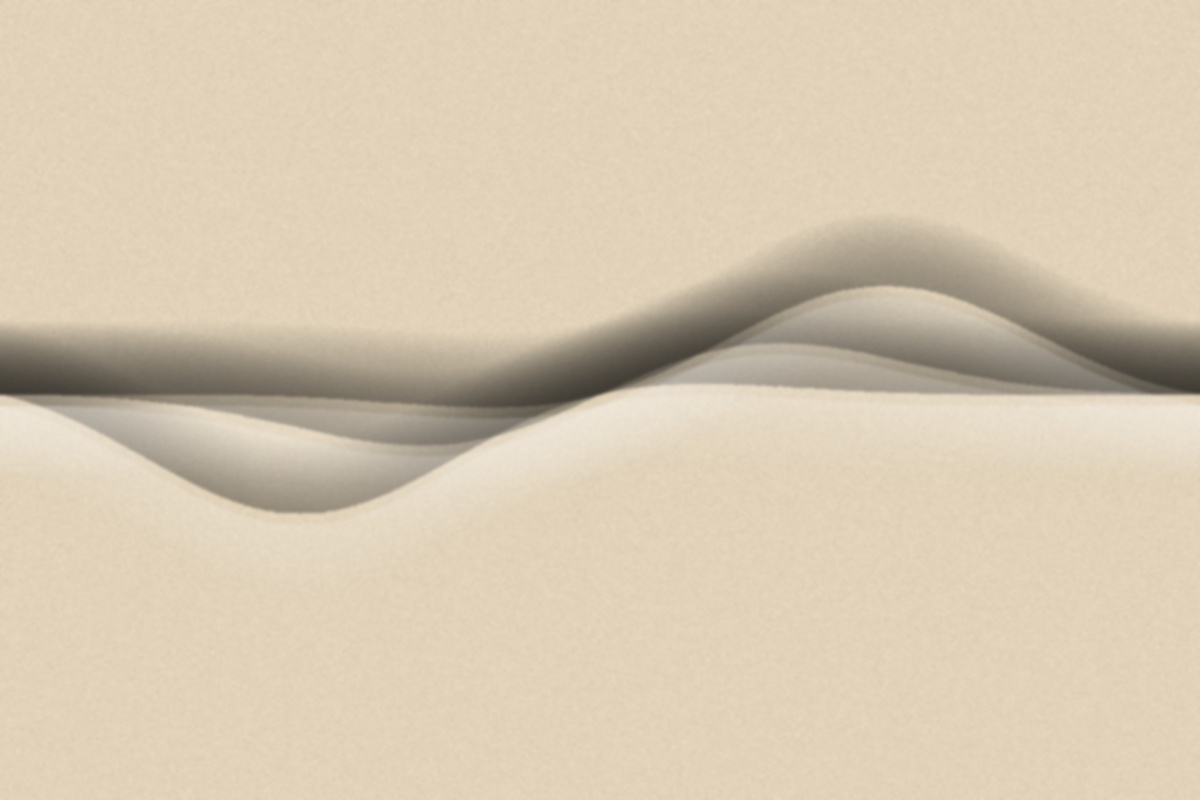
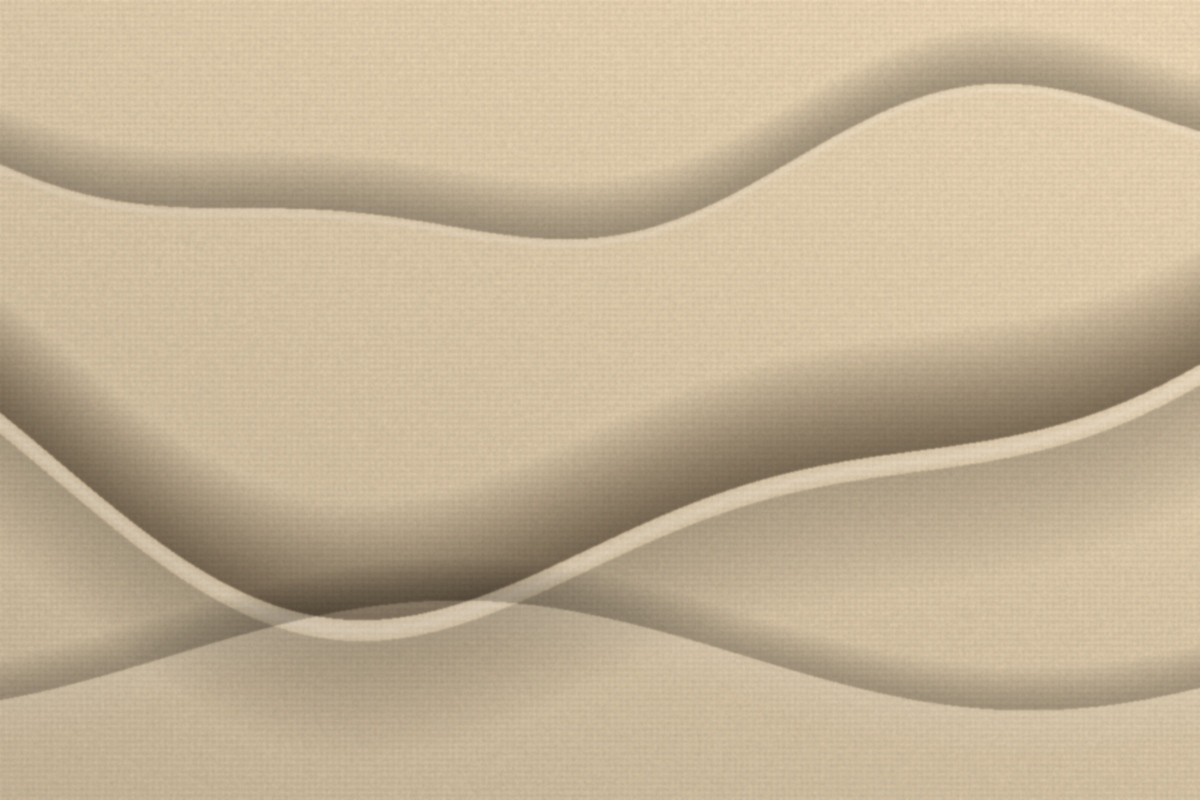
Upgrade collection cards: taller 220px cards, premium fabric images (denim twill + cream linen drape), refined spacing

diff --git a/styles.css b/styles.css
@@ -292,7 +292,7 @@ body {
 /* ===== COLLECTIONS SECTION ===== */
 .collections {
   background-color: var(--bg-dark);
-  padding: 50px 5% 90px;
+  padding: 60px 5% 110px;
 }
 
 .collections-inner {
@@ -307,7 +307,7 @@ body {
 .collection-card {
   display: flex;
   border: 1px solid var(--border-color);
-  height: 155px;
+  height: 220px;
   /* collapse shared border */
   margin-bottom: -1px;
 }
@@ -332,7 +332,7 @@ body {
 }
 
 .coll-inner {
-  padding: 22px 26px;
+  padding: 30px 32px;
   width: 100%;
 }
 
@@ -341,7 +341,7 @@ body {
   font-size: 10px;
   font-weight: 300;
   color: #4a4a46;
-  margin-bottom: 14px;
+  margin-bottom: 20px;
   letter-spacing: 0.5px;
 }
 
@@ -350,7 +350,7 @@ body {
   font-weight: 300;
   letter-spacing: 1.2px;
   color: #b8b8b4;
-  margin-bottom: 10px;
+  margin-bottom: 14px;
   text-transform: uppercase;
 }
 
@@ -358,8 +358,8 @@ body {
   font-size: 11px;
   font-weight: 300;
   color: #666;
-  line-height: 1.6;
-  margin-bottom: 16px;
+  line-height: 1.65;
+  margin-bottom: 24px;
 }
 
 .coll-link {
